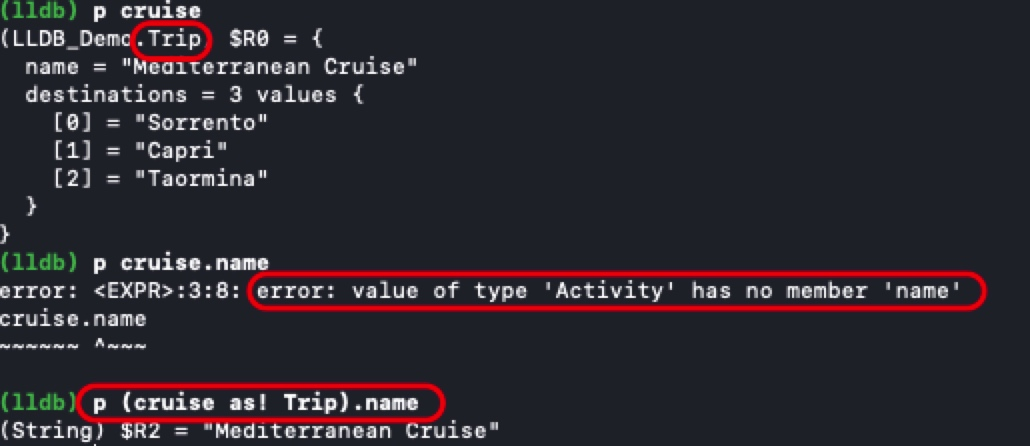
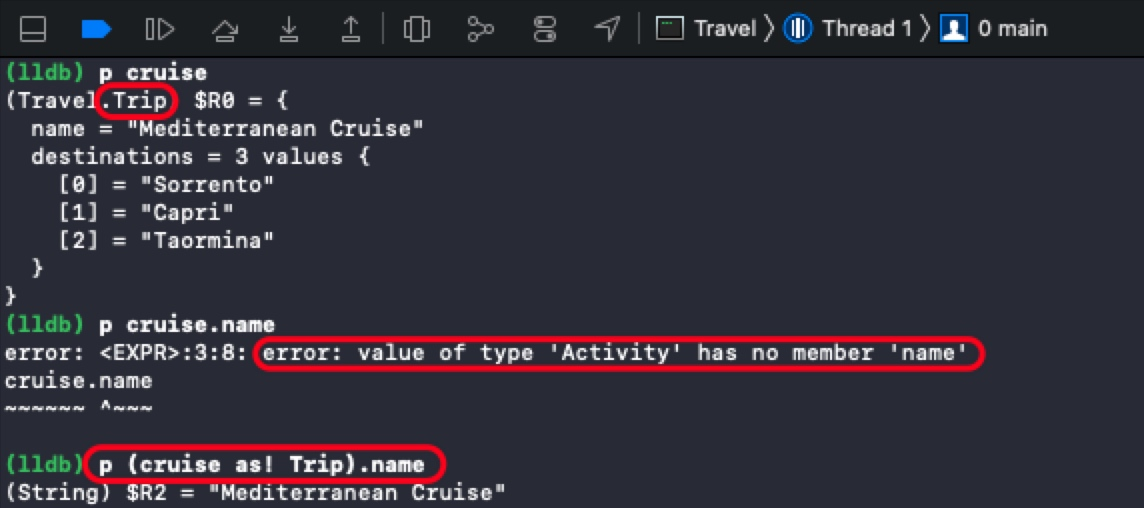
Update post LLDB-beyond-po-1

Changed region(s): [[0.0, 0.0, 1.0, 0.4955], [0.0, 0.4955, 0.9631, 0.8161], [0.0, 0.8453, 0.4971, 1.0]]

diff --git a/_posts/2021-03-02-LLDB-beyond-po-1.md b/_posts/2021-03-02-LLDB-beyond-po-1.md
@@ -7,7 +7,7 @@ tags: LLDB
 
 [WWDC 2019 / 429](https://developer.apple.com/videos/play/wwdc2019/429/) 介绍了 Xcode 11 中 `LLDB` 的常用技巧及其原理，本文做一个摘要和总结。  
 
-示例 project：[https://github.com/Bob-Playground/LLDB-Demo](https://github.com/Bob-Playground/LLDB-Demo)  
+示例 project：[https://github.com/Bob-Playground/Travel](https://github.com/Bob-Playground/Travel)  
 
 # LLDB 常用命令一：po
 
@@ -65,7 +65,16 @@ po 实际上是 `expression` 命令的一个 *alias*，`po cruise` 等效于：
 expression -O -- cruise
 ```
 
-参数说明：`-O` 是 `--object-description` 的简写。详细的参数说明可在 LLDB 内通过 `help expression` 查看。
+参数说明：`-O` 是 `--object-description` 的简写。详细的参数说明可在 LLDB 内通过 `help expression` 查看（在 Xcode Console 或 System Console 中都可以），如：
+
+```lldb
+help po
+help expression
+```
+
+![](/images/2021/lldb-help.jpg)
+
+## 创建自定义的 alias
 
 我们也可以创建自己的 *alias*：
 
@@ -95,18 +104,9 @@ extension Trip: CustomDebugStringConvertible {
 }
 ```
 
-更多信息请查看 `CustomDebugStringConvertible` 协议的相关文档。
+更多信息请查看 `CustomDebugStringConvertible` 协议的相关文档。  
 
-## 使用 help 查看 LLDB 命令的介绍
-
-在 `lldb` 内，可使用 `help` 命令查询其他命令的用法，如：
-
-```lldb
-help po
-help expression
-```
-
-![](/images/2021/lldb-help.jpg)
+对于 `Objective-C`，则可覆盖 `debugDescription` 方法或 `description` 属性来实现自定义输出。  
 
 # LLDB 常用命令二：p
 
@@ -114,7 +114,7 @@ help expression
 
 ```lldb
 (lldb) p cruise
-(LLDB_Demo.Trip) $R0 = {
+(Travel.Trip) $R0 = {
   name = "Mediterranean Cruise"
   destinations = 3 values {
     [0] = "Sorrento"
@@ -145,7 +145,7 @@ expression cruise
 
 ![](/images/2021/lldb-p-1.jpg)
 
-`p` 的前半部分过程与 `po` 一样，生成获取对象的代码并获取对象。不一样的地方是，`p` 拿到 **result** 后，会对 **result** 做 **Dynamic type resolution（动态类型解析）**。我们来看一个例子，把之前的代码稍作改动：
+`p` 的前半部分过程与 `po` 一样，生成获取对象的代码并获取对象。不一样的地方是，`p` 拿到 **result** 后，会对 **result** 做 **动态类型解析（Dynamic type resolution）**。我们来看一个例子，把之前的代码稍作改动：
 
 ```swift
 protocol Activity {}
@@ -166,13 +166,13 @@ let cruise: Activity = Trip(
 
 ![](/images/2021/lldb-p-2.jpg)
 
-可以看到，`p cruise` 的输出和之前一样，打印出了 `cruise` 的真实类型 `Trip`。这是因为 LLDB 在拿到 **result** 后对其做了**动态类型解析（Dynamic type resolution）**。
+可以看到，`p cruise` 的输出和之前一样，打印出了 `cruise` 的真实类型 `Trip`。这是因为 LLDB 在拿到 **result** 后对其做了**动态类型解析**。
 
 要注意的是，`p` 只对 **result** 做**动态类型解析**，所以上面的 `p cruise.name` 会报错。分析：在 LLDB **生成代码时**，只能从源码知道 `cruise` 是遵守 `Activity` 的协议的类型，而 `Activity` 协议中并没有 `name` 成员，所以 LLDB 生成的代码编译时就报错了，无法走到**动态类型解析**这一步。  
 
 想要通过 `p` 打印 `name`，就必须先将 `cruise` 强转为 `Trip` 类型：`p (cruise as! Trip).name`。
 
-在流程的最后，**result** 会传递给 **formatter subsystem** 处理，以输出可读性更强的内容。如果想看原始内容，可在 `expression` 命令后使用 `--raw` 参数：
+在流程的最后，**result** 会传递给 **Formatter Subsystem** 处理，以输出可读性更强的内容。如果想看原始内容，可在 `expression` 命令后使用 `--raw` 参数：
 
 ```lldb
 expression --raw -- cruise
@@ -201,9 +201,9 @@ frame variable cruise
 
 ![](/images/2021/lldb-v-2.jpg)
 
-从上图可以看出，`v` 并不生成代码来编译和执行，而是先直接从内存中读取值，再进行 **Dynamic type resolution**。如果有 **subfields**，则循环这两步，直到拿到最终的值。  
+从上图可以看出，`v` 并不生成代码来编译和执行，而是先直接从内存中读取值，再进行 **动态类型解析**。如果有 **subfields**，则循环这两步，直到拿到最终的值。  
 
-与 `p` 相同的是，**result** 会传递给 **formatter subsystem** 处理，以输出可读性更强的内容。  
+与 `p` 相同的是，**result** 会传递给 **Formatter Subsystem** 处理，以输出可读性更强的内容。  
 
 由于不需要编译和执行代码，`v` 的速度也比 `po` 或 `p` 快很多。但是，这也决定了 `v` 只能读取值，而**无法调用方法或计算表达式**。  
 
@@ -214,9 +214,9 @@ frame variable cruise
 小结：  
 
 - `po` 和 `p` 可使用语言的全部特性。LLDB 根据用户的输入，生成代码编译运行。可以进行调用方法、计算表达式等操作。
-- `po` 可以获得对象的 description，`p` 和 `v` 能使用 **Data formatter subsystem** 处理 **result**。
-- `p` 可以对 **result** 做 **Dynamic type resolution**。
-- `v` 直接从内存读取变量，速度快，并且可以对读取的值**递归地**做 **Dynamic type resolution**，但不能用于调用方法、计算表达式等。
+- `po` 可以获得对象的 description，`p` 和 `v` 能使用 **Data Formatter Subsystem** 处理 **result**。
+- `p` 可以对 **result** 做 **动态类型解析**。
+- `v` 直接从内存读取变量，速度快，并且可以对读取的值**递归地**做 **动态类型解析**，但不能用于调用方法、计算表达式等。
 
 # Reference
 
